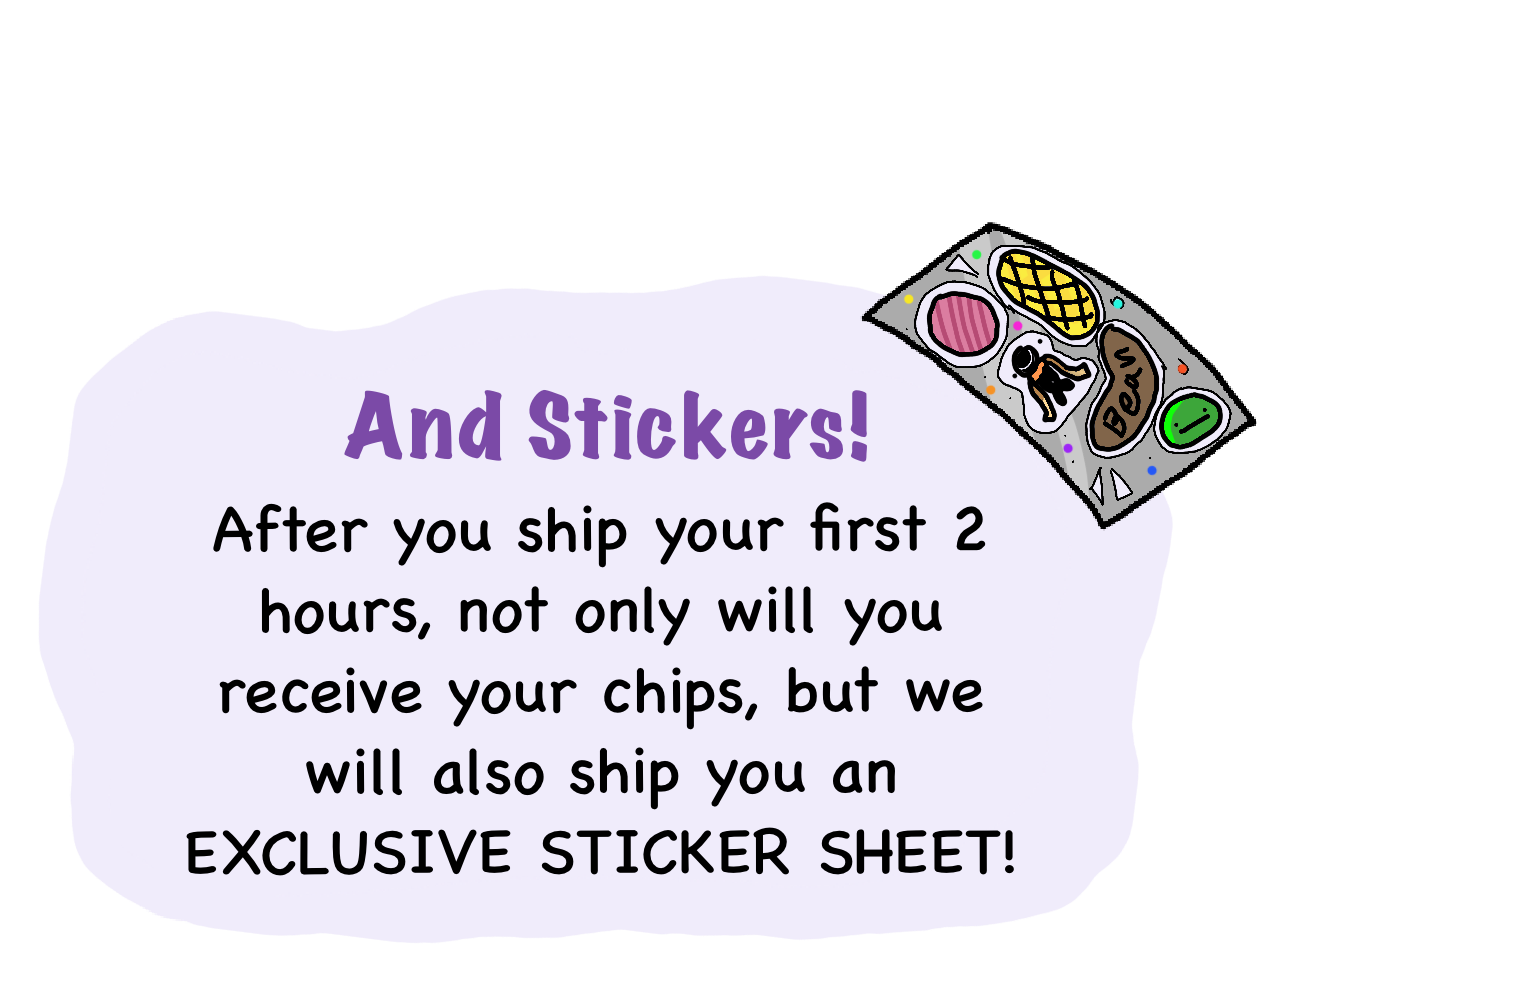
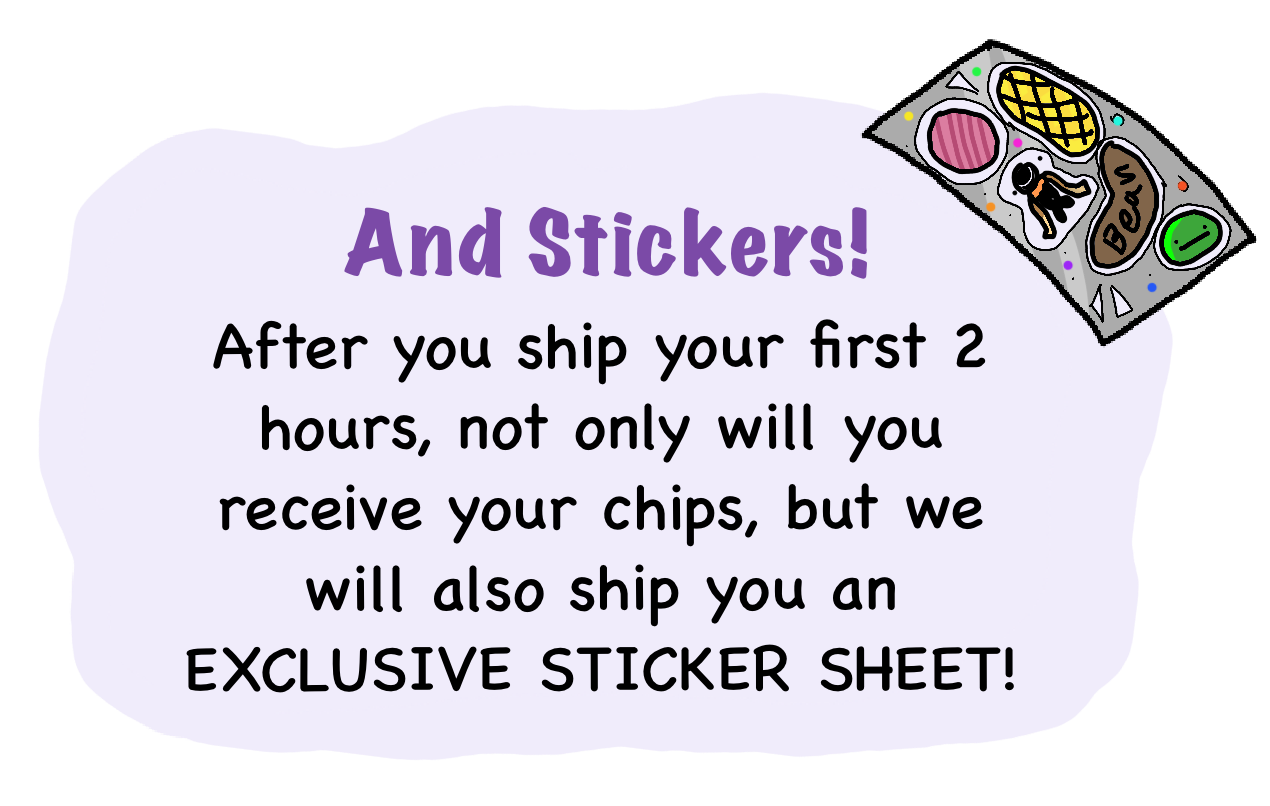
idk changes

Changed region(s): [[0.1228, 0.031, 1.0, 0.8995]]

diff --git a/src/lib/styles/style.css b/src/lib/styles/style.css
@@ -89,12 +89,12 @@ body {
 }
 
 .rsvp-button {
-	width: clamp(372px, 15vw, 340px);
+	width: clamp(372px, 15vw, 380px);
 	margin-top: -40px;
 }
 
 .faq-button {
-	width: clamp(185px, 7.5vw, 170px);
+	width: clamp(185px, 7.5vw, 210px);
 	margin-top: -40px;
 }
 